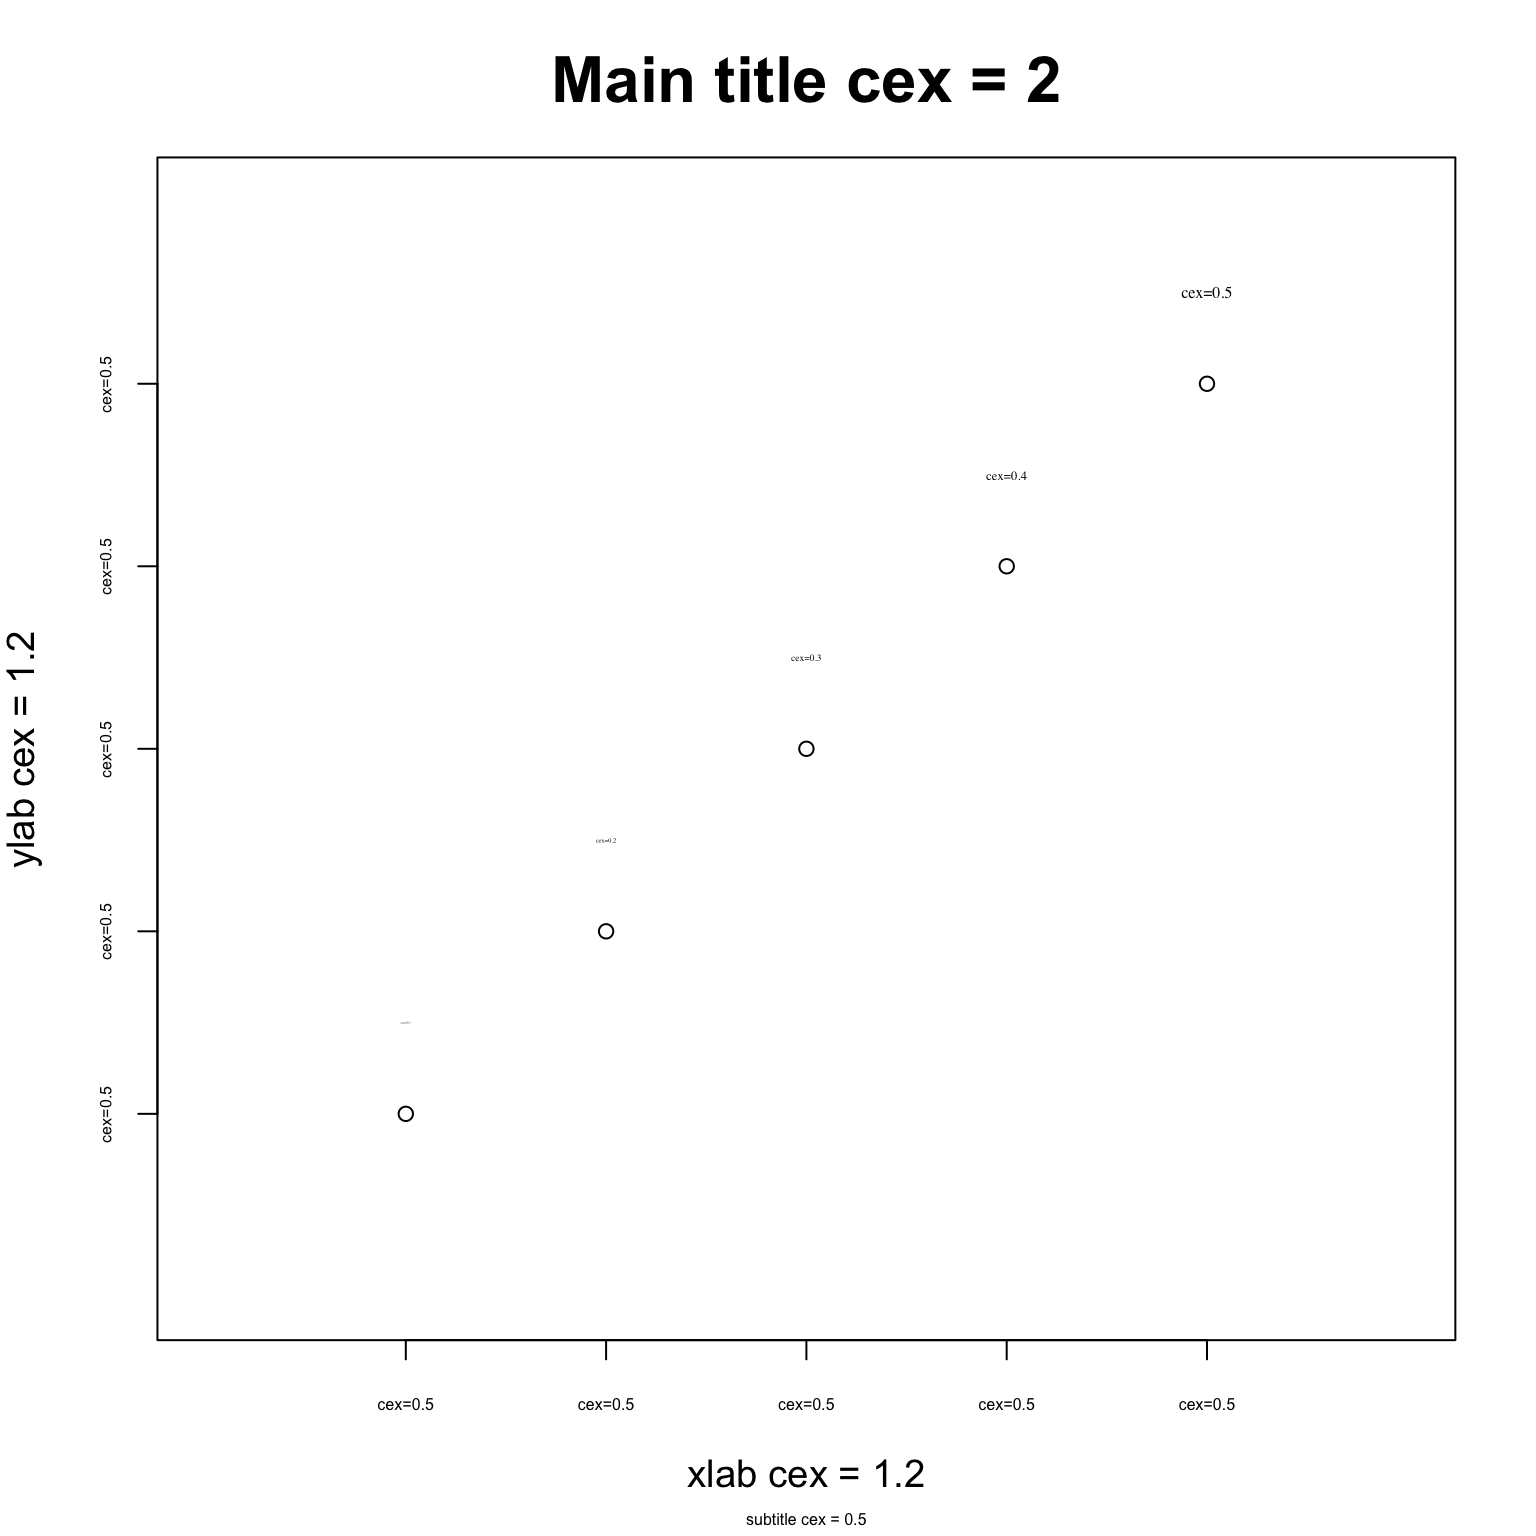
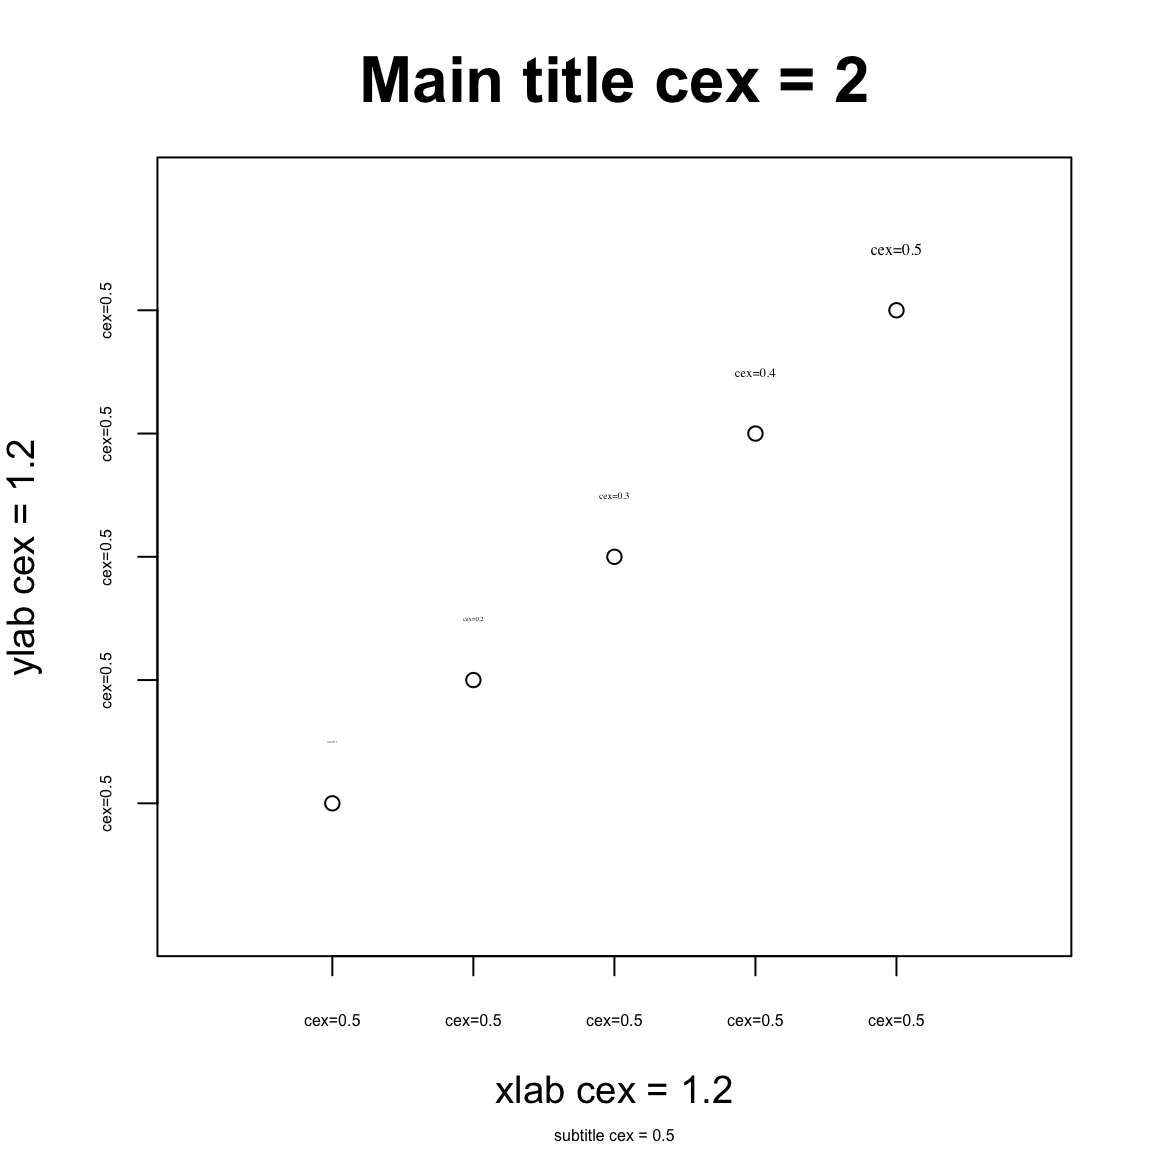
update

diff --git a/docs/text.html b/docs/text.html
@@ -268,7 +268,7 @@ $(document).ready(function () {
 labels =<span class="st"> </span><span class="kw">paste0</span>(<span class="st">&#39;cex=&#39;</span>, (<span class="dv">1</span>:<span class="dv">5</span>)/<span class="dv">10</span>)
 <span class="kw">text</span>(<span class="dt">x=</span><span class="dv">1</span>:<span class="dv">5</span>, <span class="dt">y=</span><span class="dv">1</span>:<span class="dv">5</span> +<span class="st"> </span><span class="fl">0.5</span>, <span class="dt">labels =</span> labels, 
      <span class="dt">cex =</span> (<span class="dv">1</span>:<span class="dv">5</span>)/<span class="dv">10</span>, <span class="dt">family =</span> <span class="st">&quot;serif&quot;</span>)</code></pre></div>
-<p><img src="text_files/figure-html/unnamed-chunk-1-1.png" width="768" style="display: block; margin: auto;" /></p>
+<p><img src="text_files/figure-html/unnamed-chunk-1-1.png" width="576" style="display: block; margin: auto;" /></p>
 </div>
 
 <center>Copyright &copy; 2017 Ming Chen. All rights reserved.</center>
